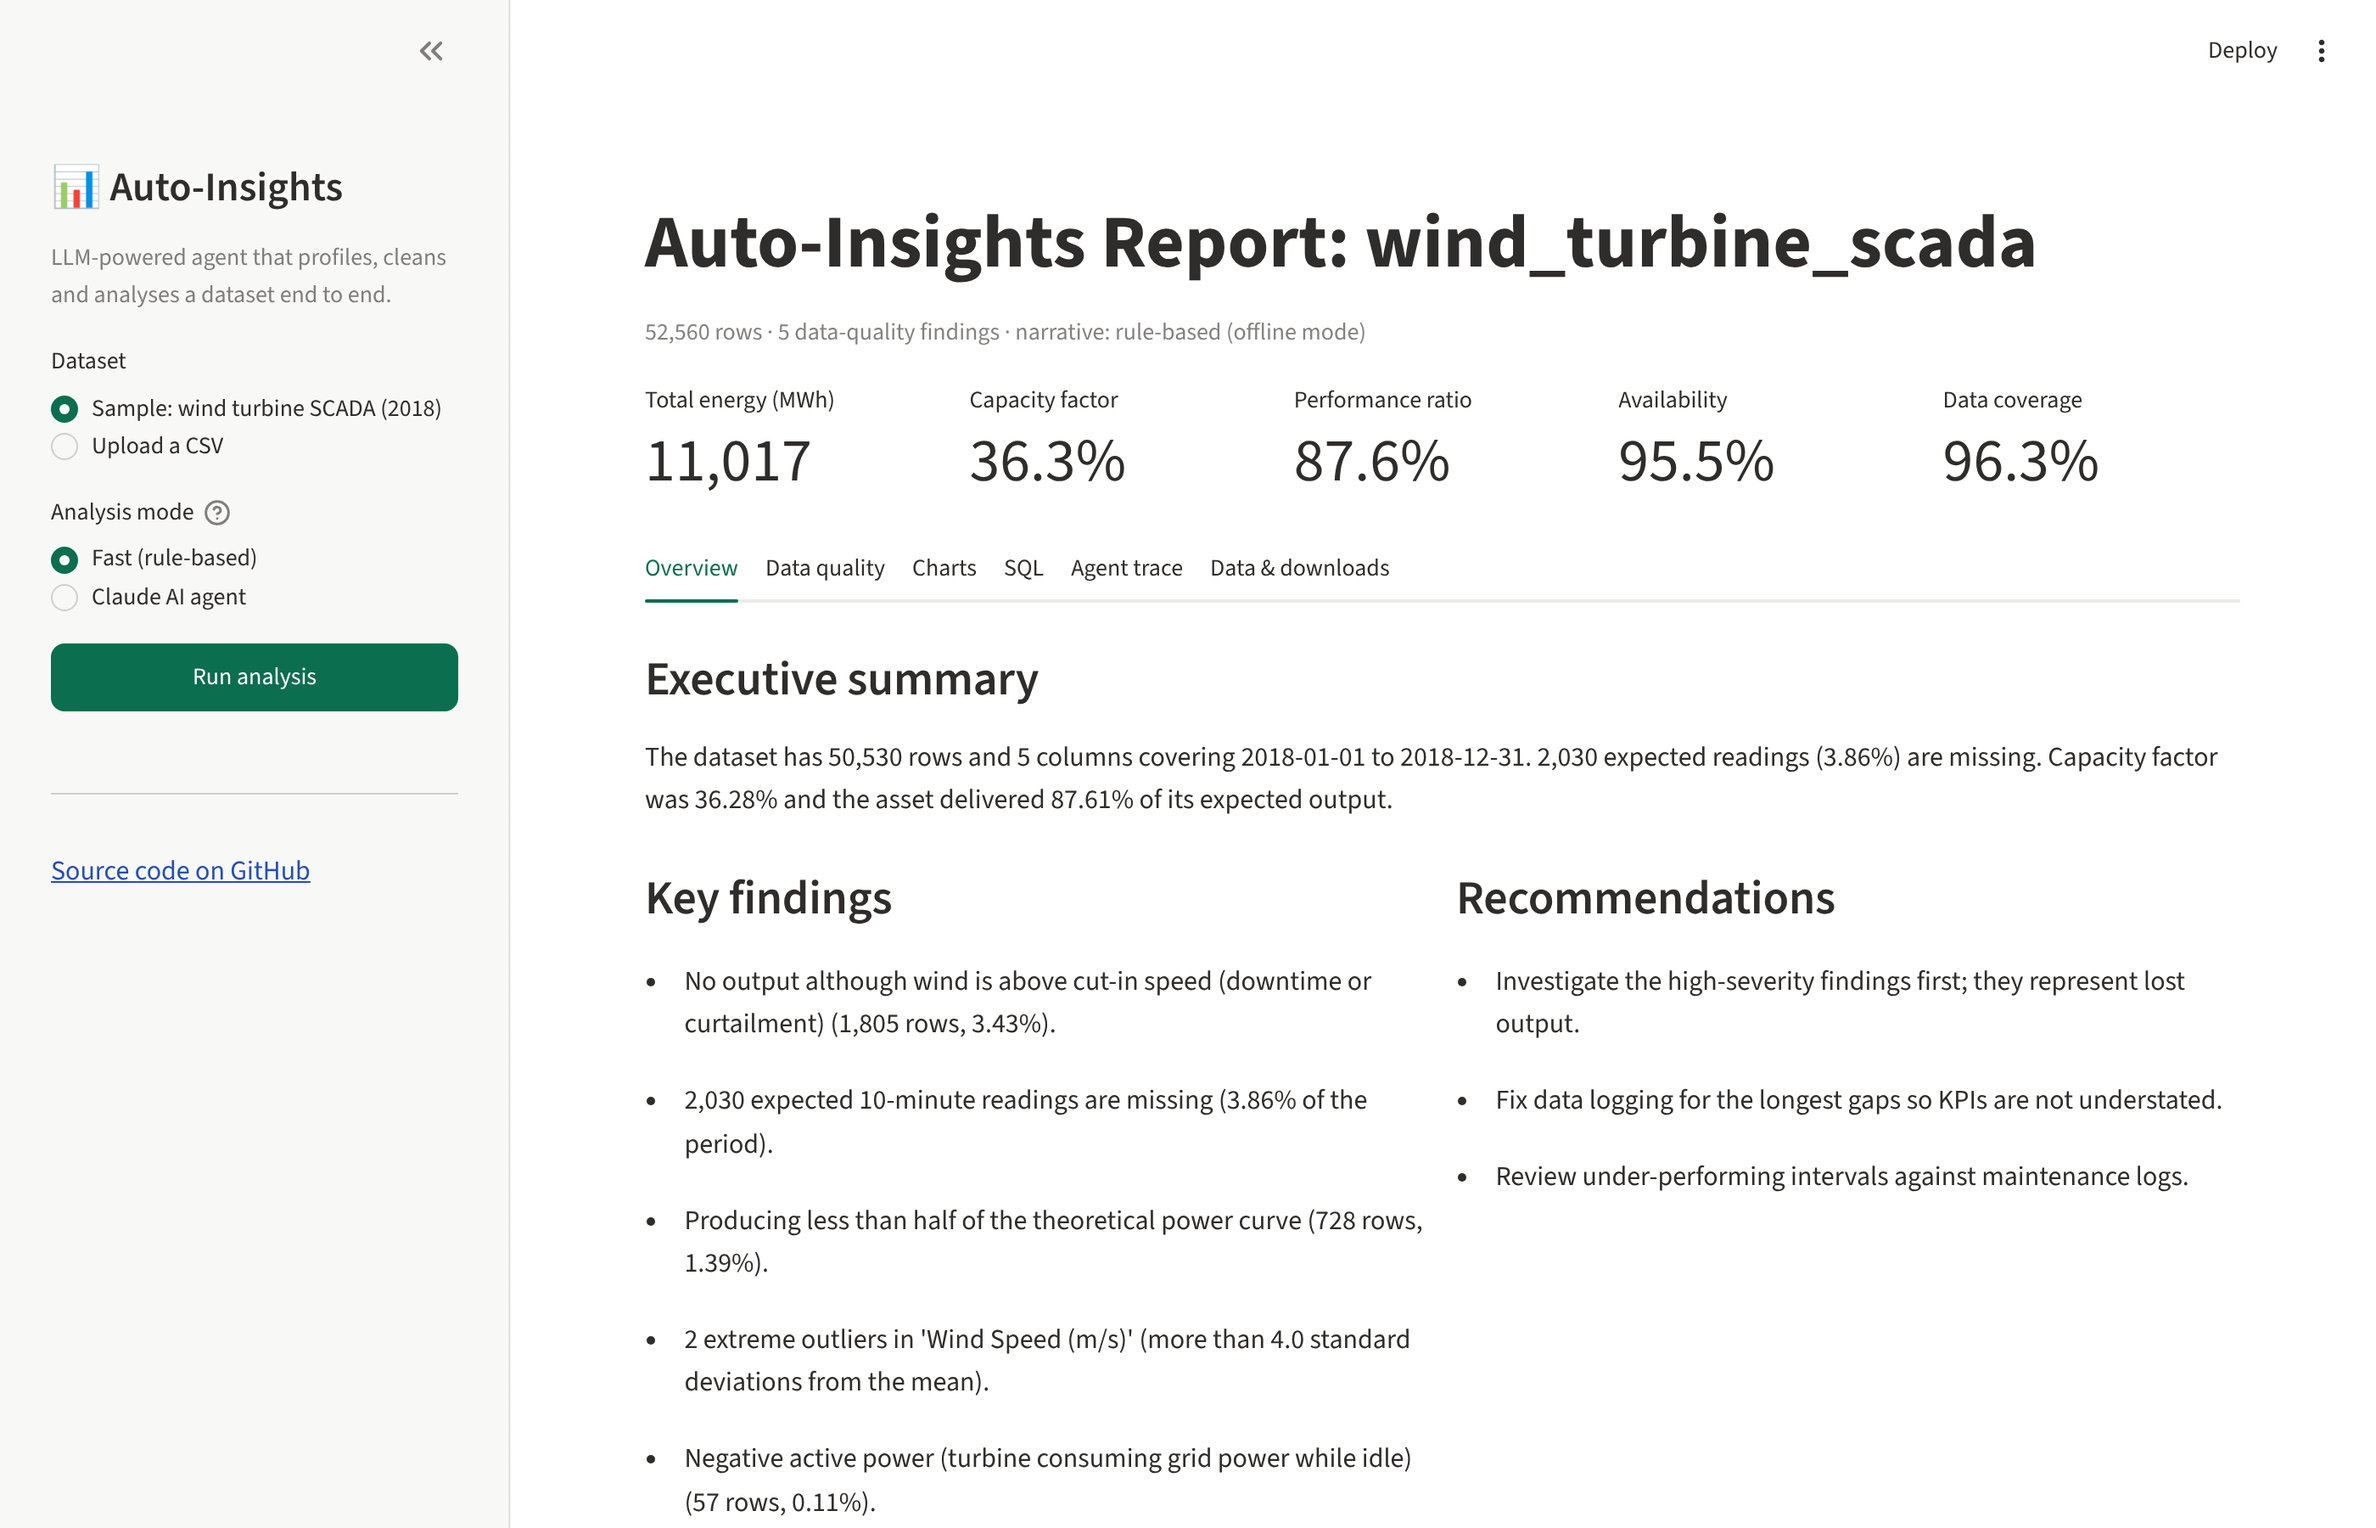
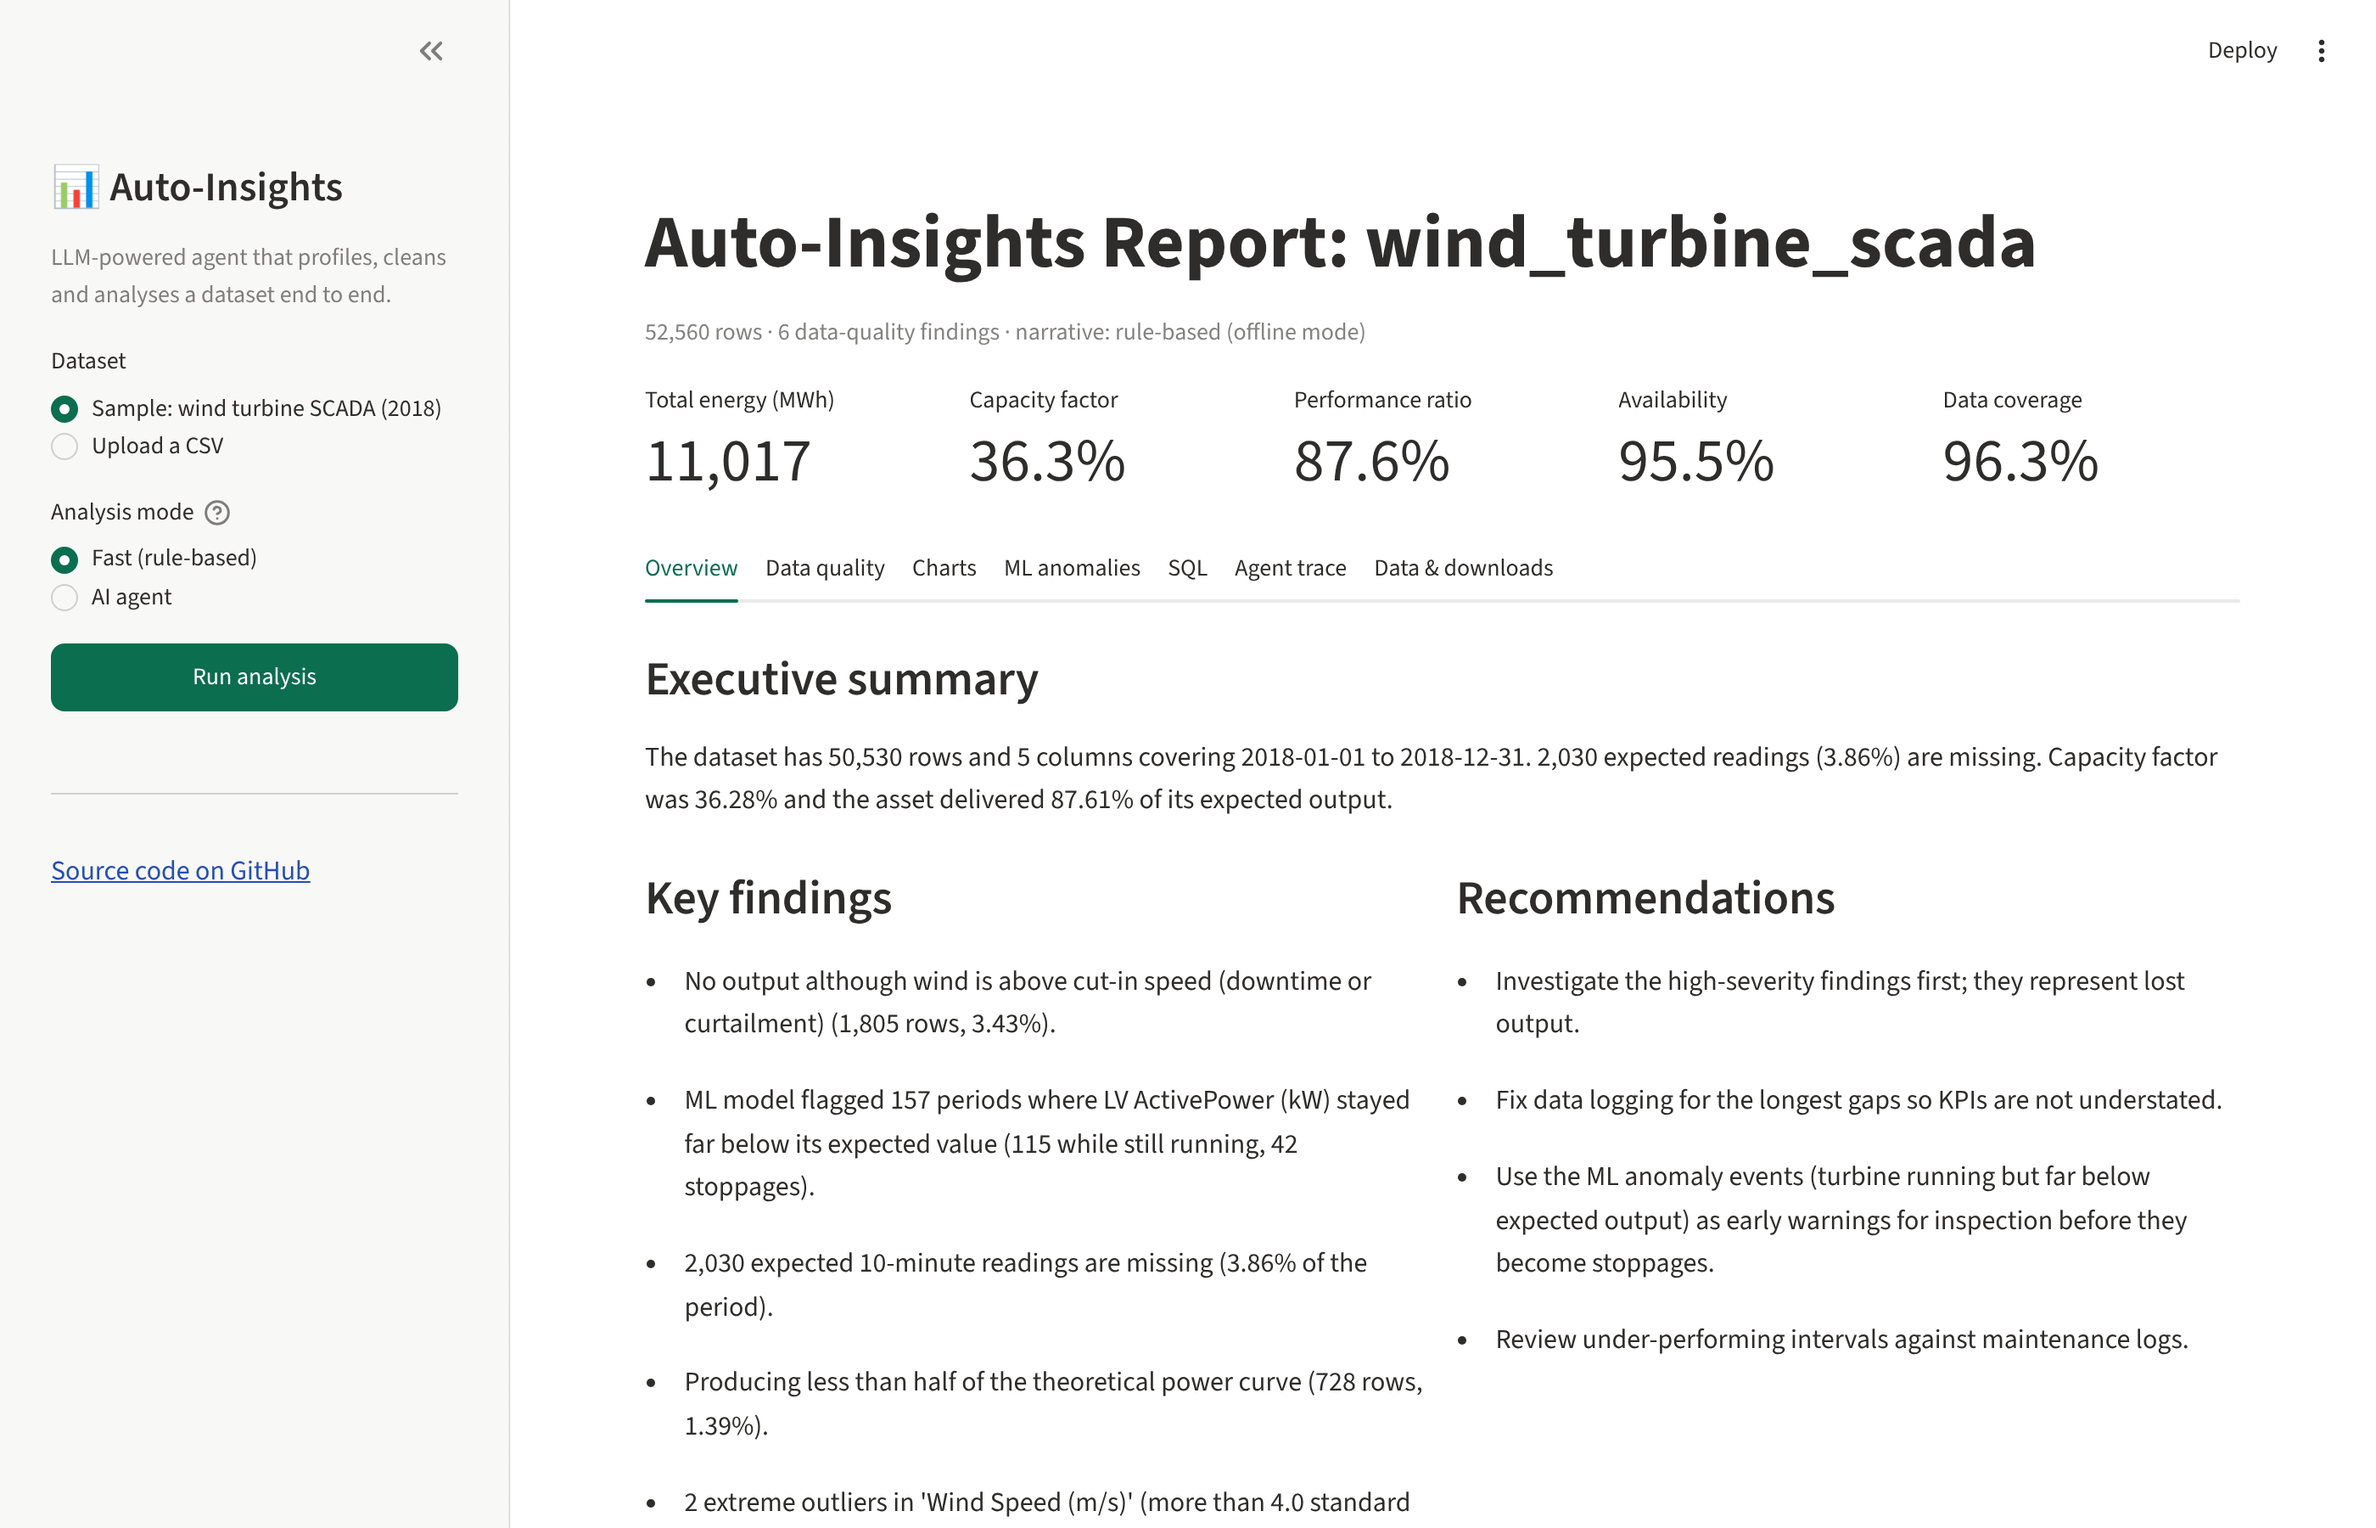
Document ML results in README
Claude-Session: https://claude.ai/code/session_01KCZKqdkkRXP11LFKhQThdc

diff --git a/README.md b/README.md
@@ -2,7 +2,7 @@
 
 ![tests](https://github.com/malihashaik68/auto-insights-ai-agent/actions/workflows/tests.yml/badge.svg)
 
-An LLM-powered agent that analyses a dataset end to end without a human in the loop. It profiles the data, handles missing values, flags inconsistencies, runs exploratory data analysis and SQL KPI queries, and produces an interactive dashboard and report.
+An LLM-powered agent that analyses a dataset end to end without a human in the loop. It profiles the data, handles missing values, flags inconsistencies, runs exploratory data analysis and SQL KPI queries, trains a machine-learning model to detect anomalies, and produces an interactive dashboard and report.
 
 The demo runs on **real wind turbine SCADA data**: one year of 10-minute readings from a 3.6 MW turbine. This is the kind of operational data used to monitor wind fleets.
 
@@ -19,6 +19,7 @@ The demo runs on **real wind turbine SCADA data**: one year of 10-minute reading
 | **Inconsistencies** | Runs generic checks (duplicates, negatives, z-score outliers, stuck sensors), then the agent writes **domain rules** such as "no output although wind is above cut-in speed" |
 | **EDA** | Distributions, skew, IQR outliers, strongest correlations |
 | **SQL** | Loads the cleaned data into a SQLite database. KPIs are broken down with SQL (monthly energy and downtime, losses by wind band, worst days), and the agent can write its own queries |
+| **Machine learning** | Trains a gradient-boosted **normal-behaviour model** on healthy data only (known faults excluded), validated on a later time period it never saw. Then it flags sustained periods where output falls far below what the model expects: early warnings of faults or degradation |
 | **KPIs** | Energy, capacity factor, performance ratio vs. expected output, availability, under-performing intervals |
 | **Trends** | Monthly, weekly or daily aggregation with best/worst periods and the linear trend |
 | **Deliverables** | Interactive Streamlit dashboard, standalone HTML dashboard, Markdown report, Excel workbook (ready for Power BI or Excel), cleaned CSV |
@@ -43,6 +44,7 @@ The demo runs on **real wind turbine SCADA data**: one year of 10-minute reading
 * **The LLM decides, the code calculates.** The LLM chooses which tools to run, writes domain rules and SQL, and writes the narrative. Every number comes from pandas or SQLite, so the model cannot make up statistics.
 * **Hand-written tool-use loop** (`auto_insights/agent.py`), with no framework, so each step is visible and testable. The dashboard's *Agent trace* tab shows every tool call.
 * **Safe by design:** pandas rules allow only column names, numbers and comparison operators. SQL runs under a SQLite authorizer that permits reading only, so `DROP`, `DELETE`, `ATTACH` and multi-statement queries are rejected (see the tests).
+* **No data leakage in the ML:** chronological train/test split (no shuffling), target never used as a feature, and anomaly thresholds come from training data only.
 * **Error recovery:** if a tool fails (for example, a wrong column name or bad SQL), the error goes back to the LLM as a tool result and it corrects itself.
 * **Fast mode:** without an API key, the same tools run in a fixed order with a rule-based narrative. The project always runs, and the tests need no key.
 
@@ -62,6 +64,20 @@ What the analysis found:
 * **Most energy is lost at 9–12 m/s wind (SQL)**: 774 MWh, more than any other wind band.
 * Worst single day: 2018-01-24, with 61.7 MWh lost and 22.3 h of downtime.
 * 728 intervals producing less than half of the theoretical power curve, and 57 negative power readings.
+
+### Machine learning: normal-behaviour model
+
+| | |
+|---|---|
+| Model | Gradient-boosted trees (scikit-learn `HistGradientBoostingRegressor`), predicts power from wind speed and direction (sin/cos encoded) |
+| Training data | 36,052 healthy readings (Jan–Sep); downtime and under-performance excluded |
+| Test (Oct–Dec, unseen) | **R² = 0.988, MAE = 84 kW**, **31% more accurate** than the manufacturer's theoretical power curve (MAE 122 kW) |
+| Anomaly rule | actual < expected − 3σ (robust σ from training residuals) for ≥ 1 hour |
+| Result | **157 anomaly events**: 115 where the turbine was **still running but far below expected** (early warnings) and 42 stoppages |
+
+Lost output in anomaly events peaks in January and December. In December it is mostly under-performance rather than stoppage, which is consistent with icing. Example: 2018-12-25, 31 hours at 22% of expected output.
+
+![ML anomalies](docs/app_ml.png)
 
 Full output: [`docs/sample_report.md`](docs/sample_report.md)
 
@@ -119,7 +135,7 @@ The app runs free on [Streamlit Community Cloud](https://share.streamlit.io):
 pytest -q
 ```
 
-22 tests cover profiling, gap detection and filling, rule checks (including rejecting injected code), read-only SQL, a cross-check that SQL monthly energy matches the pandas KPI, the full pipeline, and both agent loops (Claude and Gemini) using fake clients. GitHub Actions runs them on every push.
+25 tests cover profiling, gap detection and filling, rule checks (including rejecting injected code), read-only SQL, the ML model (finds an injected fault, rejects target leakage, excludes flagged rows), a cross-check that SQL monthly energy matches the pandas KPI, the full pipeline, and both agent loops (Claude and Gemini) using fake clients. GitHub Actions runs them on every push.
 
 ## Project structure
 
@@ -129,6 +145,7 @@ auto_insights/
   agent.py              Claude tool-use loop, tool definitions, system prompt
   agent_gemini.py       the same loop on Google Gemini
   data_tools.py         pandas analysis tools (the numbers)
+  ml_tools.py           normal-behaviour ML model + anomaly detection
   sql_tools.py          read-only SQLite layer
   offline.py            fast rule-based pipeline + wind turbine preset (rules, SQL)
   report.py             HTML dashboard, Markdown report, Excel workbook
@@ -139,7 +156,7 @@ tests/                  pytest suite
 
 ## Tech stack
 
-Python · Anthropic Claude API & Google Gemini API (tool use / function calling) · SQL (SQLite) · pandas · NumPy · Streamlit · Plotly · openpyxl (Excel / Power BI export) · pytest · GitHub Actions
+Python · Anthropic Claude API & Google Gemini API (tool use / function calling) · SQL (SQLite) · scikit-learn · pandas · NumPy · Streamlit · Plotly · openpyxl (Excel / Power BI export) · pytest · GitHub Actions
 
 ## Data source
 

diff --git a/docs/sample_report.md b/docs/sample_report.md
@@ -25,14 +25,17 @@ The dataset has 50,530 rows and 5 columns covering 2018-01-01 to 2018-12-31. 2,0
 ## Key findings
 
 - No output although wind is above cut-in speed (downtime or curtailment) (1,805 rows, 3.43%).
+- ML model flagged 157 periods where LV ActivePower (kW) stayed far below its expected value (115 while still running, 42 stoppages).
 - 2,030 expected 10-minute readings are missing (3.86% of the period).
 - Producing less than half of the theoretical power curve (728 rows, 1.39%).
 - 2 extreme outliers in 'Wind Speed (m/s)' (more than 4.0 standard deviations from the mean).
 - Negative active power (turbine consuming grid power while idle) (57 rows, 0.11%).
-- LV ActivePower (kW): best month 2018-08 (1974.69), worst month 2018-07 (477.01).
-- Wind Speed (m/s): best month 2018-03 (9.73), worst month 2018-07 (4.95).
+- LV ActivePower (kW): highest month 2018-08 (1974.69), lowest month 2018-07 (477.01).
+- Wind Speed (m/s): highest month 2018-03 (9.73), lowest month 2018-07 (4.95).
 - LV ActivePower (kW) and Theoretical_Power_Curve (KWh) correlate at r = 0.95.
 - Wind Speed (m/s) and Theoretical_Power_Curve (KWh) correlate at r = 0.944.
+- ML normal-behaviour model predicts LV ActivePower (kW) with R2 = 0.9875 (MAE 83.94) on unseen data, 31.4% more accurate than Theoretical_Power_Curve (KWh).
+- Largest ML anomaly: 2018-01-22 19:10:00 to 2018-01-26 02:40:00, stoppage, output 89.7% below expected.
 - Worst day (SQL): 2018-01-24, 61.7 MWh lost with 22.3 h of downtime.
 
 ## Data quality findings
@@ -40,6 +43,7 @@ The dataset has 50,530 rows and 5 columns covering 2018-01-01 to 2018-12-31. 2,0
 | Severity | Check | Rows | Detail |
 |---|---|---|---|
 | high | zero_output_in_wind | 1,805 | No output although wind is above cut-in speed (downtime or curtailment) (1,805 rows, 3.43%). |
+| high | ml_anomalies | 3,435 | ML model flagged 157 periods where LV ActivePower (kW) stayed far below its expected value (115 while still running, 42 stoppages). |
 | medium | missing_timestamps | 2,030 | 2,030 expected 10-minute readings are missing (3.86% of the period). |
 | medium | severe_underperformance | 728 | Producing less than half of the theoretical power curve (728 rows, 1.39%). |
 | low | outliers_Wind Speed (m/s) | 2 | 2 extreme outliers in 'Wind Speed (m/s)' (more than 4.0 standard deviations from the mean). |
@@ -47,9 +51,10 @@ The dataset has 50,530 rows and 5 columns covering 2018-01-01 to 2018-12-31. 2,0
 
 ## Cleaning steps
 
-- Missing values: strategy=interpolate, timestamps added=2030, cells filled=292, cells still empty=7828, rows 50530->52560
+- Missing values: strategy=interpolate, duplicate timestamps removed=0, timestamps added=2030, cells filled=292, cells still empty=7828, rows 50530->52560
 - Flagged 1805 rows as flag_downtime: `LV ActivePower (kW)` <= 0 and `Wind Speed (m/s)` >= 4
 - Flagged 728 rows as flag_underperformance: `LV ActivePower (kW)` > 0 and `LV ActivePower (kW)` < 0.5 * `Theoretical_Power_Curve (KWh)` and `Theoretical_Power_Curve (KWh)` > 500
+- ML normal-behaviour model trained on 36,052 healthy rows (test R2 = 0.9875, MAE = 83.94); added ml_expected and ml_residual columns.
 
 ## SQL: Monthly energy, expected energy and downtime
 
@@ -135,8 +140,32 @@ LIMIT 10
 | 2018-12-19 |           9.9 |       25.1 |              5.7 |
 | 2018-02-26 |           9.4 |       22.3 |             10.5 |
 
+## Machine learning: normal-behaviour model
+
+- Model: HistGradientBoostingRegressor (absolute-error loss), predicts `LV ActivePower (kW)` from Wind Speed (m/s), Wind Direction (°)_sin, Wind Direction (°)_cos
+- Trained on 36,052 healthy rows; chronological split: first 75% train, last 25% test
+- Test R² = 0.9875, MAE = 83.94, RMSE = 147.94
+- Baseline (Theoretical_Power_Curve (KWh)) MAE = 122.28: the model is 31.4% more accurate
+- Anomaly rule: actual < predicted - 3.0 x 38.7, at least 6 consecutive readings; 157 events
+
+Largest anomaly events:
+
+| start               | end                 |   duration_hours | type             |   readings |   avg_actual |   avg_expected |   shortfall_pct |   lost_energy_kWh |
+|:--------------------|:--------------------|-----------------:|:-----------------|-----------:|-------------:|---------------:|----------------:|------------------:|
+| 2018-01-22 19:10:00 | 2018-01-26 02:40:00 |             79.7 | stoppage         |        478 |        219.5 |         2124.5 |            89.7 |          151764   |
+| 2018-01-13 20:40:00 | 2018-01-15 05:10:00 |             32.7 | stoppage         |        196 |        287.4 |         1992.2 |            85.6 |           55690.4 |
+| 2018-02-24 23:50:00 | 2018-02-26 10:20:00 |             34.7 | underperformance |        208 |        191.2 |         1654.8 |            88.4 |           50737.7 |
+| 2018-12-25 05:30:00 | 2018-12-26 12:10:00 |             30.8 | underperformance |        185 |        422.1 |         1882   |            77.6 |           45013.6 |
+| 2018-01-16 01:10:00 | 2018-01-16 10:30:00 |              9.5 | stoppage         |         57 |         87.1 |         3570.5 |            97.6 |           33092.6 |
+| 2018-12-04 21:40:00 | 2018-12-05 13:20:00 |             15.8 | stoppage         |         95 |         15.2 |         2083.9 |            99.3 |           32754.1 |
+| 2018-12-19 04:10:00 | 2018-12-20 07:50:00 |             27.8 | underperformance |        167 |        582   |         1519.5 |            61.7 |           26094.1 |
+| 2018-02-23 06:00:00 | 2018-02-23 14:30:00 |              8.7 | stoppage         |         52 |         48.7 |         2049.1 |            97.6 |           17337   |
+| 2018-11-30 09:40:00 | 2018-12-01 00:20:00 |             14.8 | underperformance |         89 |        970.9 |         1895.1 |            48.8 |           13708.8 |
+| 2018-01-30 16:50:00 | 2018-01-30 21:10:00 |              4.5 | stoppage         |         27 |         20.7 |         2690.4 |            99.2 |           12013.8 |
+
 ## Recommendations
 
 - Investigate the high-severity findings first; they represent lost output.
 - Fix data logging for the longest gaps so KPIs are not understated.
+- Use the ML anomaly events (turbine running but far below expected output) as early warnings for inspection before they become stoppages.
 - Review under-performing intervals against maintenance logs.
